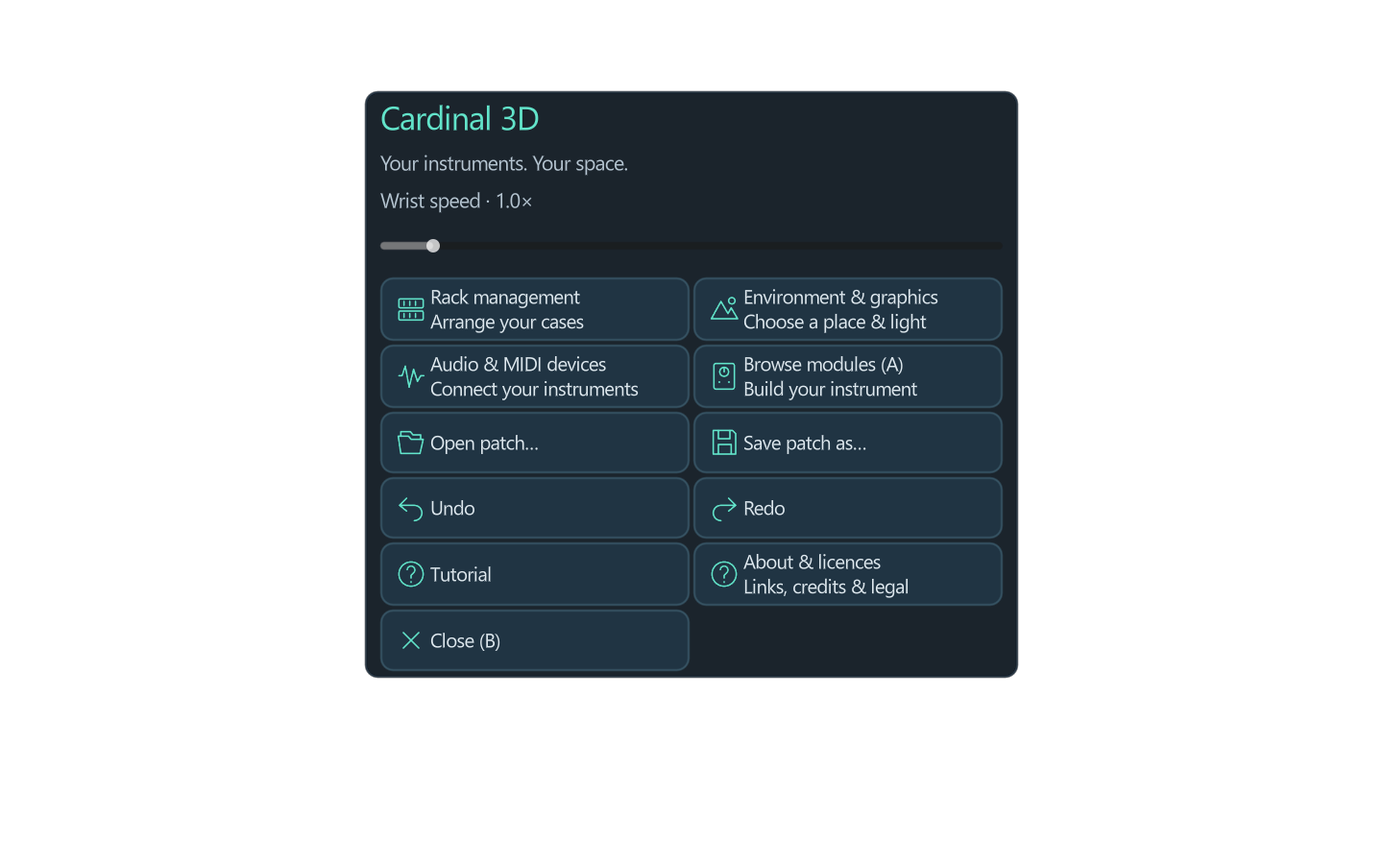
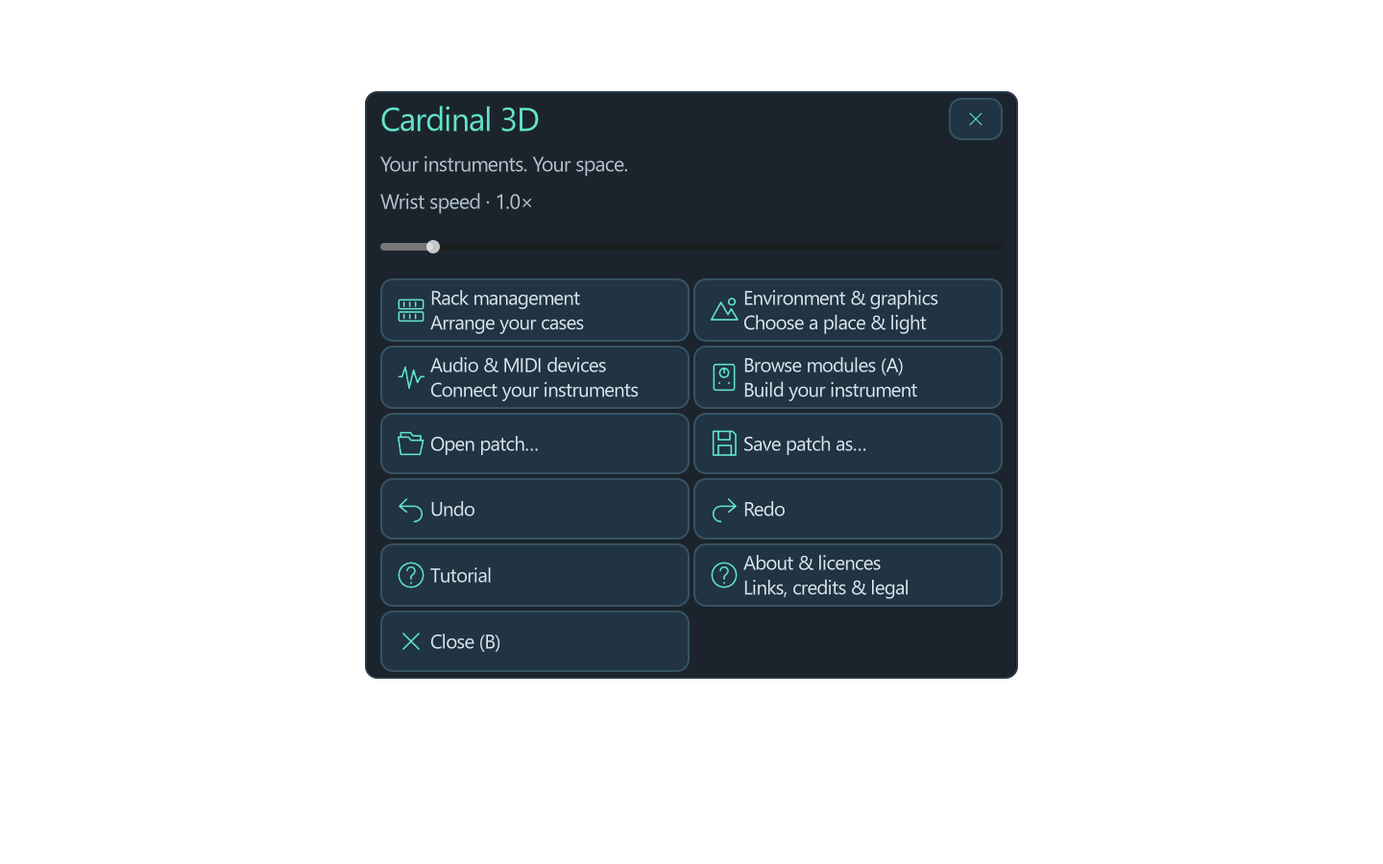
Swap B menu shortcuts, add window close buttons and use author controller diagram

diff --git a/docs/MANUAL.html b/docs/MANUAL.html
@@ -1,1 +1,1 @@
-<!doctype html><html lang="en"><meta charset="utf-8"><meta name="viewport" content="width=device-width, initial-scale=1"><title>Cardinal 3D 0.77 — manual</title><style>body{margin:0;background:#0c1720;color:#dce8ed;font:19px/1.65 system-ui,sans-serif}main{max-width:980px;margin:auto;padding:40px 24px}h1,h2{color:#62e4ca;line-height:1.2}h2{margin-top:64px}a{color:#8ce7dc}nav{padding:20px;background:#17303c;border-radius:16px}nav a{display:inline-block;margin:6px 18px 6px 0}figure{margin:28px 0}img{max-width:100%;height:auto;border-radius:14px;border:1px solid #365363}figcaption{font-size:15px;color:#a4bac6}table{width:100%;border-collapse:collapse}td{padding:12px;border-bottom:1px solid #365363}tr:first-child{color:#62e4ca;font-weight:600}code{background:#203443;padding:2px 5px;border-radius:4px}@media print{body{background:white;color:#172730}h1,h2,a{color:#174f52}nav{display:none}img{max-height:420px;object-fit:contain}h2{break-before:page}figure,table{break-inside:avoid}}</style><main><h1 id="section-0">Cardinal 3D 0.77 — illustrated manual</h1><nav><a href="#section-0">1. Install and start</a><a href="#section-1">2. Know the controls</a><a href="#section-2">3. Play knobs, faders and small selectors</a><a href="#section-3">4. Find and add modules</a><a href="#section-4">5. Patch and unplug cables</a><a href="#section-5">6. Arrange multiple cases</a><a href="#section-6">7. Choose a place and picture quality</a><a href="#section-7">8. Audio, MIDI and saving</a><a href="#section-8">9. About, support and licences</a><a href="#section-9">10. If something goes wrong</a></nav><p>Build a modular instrument around you. Cardinal 3D runs Cardinal&#x27;s synthesizer inside a Windows VR application, using a Quest 2 through Quest Link. Several physical cases share one patch, so cables can connect modules across cases.</p><p><figure><img src="images/rack.png" alt="A real starter rack rendered in Cardinal 3D" loading="lazy"><figcaption>A real starter rack rendered in Cardinal 3D</figcaption></figure></p><h2 id="section-0">1. Install and start</h2><p>Download the Windows x64 ZIP from <a href="https://github.com/mtyas/Cardinal-3D/releases">Releases</a>, extract the whole folder, and keep its files together. No Python, Docker or compiler is needed to play. Install Meta Horizon Link, connect the Quest 2 with a USB data cable, and enter Quest Link from the headset. Make Meta&#x27;s runtime the active OpenXR runtime in the Link app if another PC VR runtime is selected.</p><p>Run <strong>Launch Quest Link.bat</strong>. For a monitor-only check, use <strong>Launch desktop.bat</strong>. Close the old app before starting another copy. Start with a low volume; the starter patch makes a continuous tone. The startup guide can be skipped and replayed from the B menu. Its startup toggle remembers your choice.</p><p><figure><img src="images/tutorial.png" alt="Startup guide with labelled Quest Touch controller" loading="lazy"><figcaption>Startup guide with labelled Quest Touch controller</figcaption></figure></p><p>Your computer needs Windows x64, a graphics card supported by Quest Link and the Meta Link software. The tested setup is Quest 2 over USB; other OpenXR headsets and Air Link are not validated. This is a PC application, not a standalone Android headset app or a DAW plugin.</p><h2 id="section-1">2. Know the controls</h2><p><figure><img src="images/tutorial-3.png" alt="Right Quest Touch controller controls in the app" loading="lazy"><figcaption>Right Quest Touch controller controls in the app</figcaption></figure></p><table><tr><td>Control</td><td>Action</td></tr><tr><td>Trigger</td><td>Click; hold to adjust a control, patch a cable or drag a title/case</td></tr><tr><td>Right A / left X</td><td>Open or close the module browser</td></tr><tr><td>Right B / left Y</td><td>Main menu; selected module&#x27;s native menu when a module is selected</td></tr><tr><td>Grip + B/Y</td><td>Always open the main menu</td></tr><tr><td>Joystick</td><td>Pan left/right and move closer/farther; scroll when a menu/browser is open</td></tr><tr><td>Grip + joystick</td><td>Raise/lower your viewpoint; turn left/right around your head</td></tr><tr><td>Trigger + wrist twist</td><td>Turn a knob or move a fader</td></tr><tr><td>Trigger + grip + wrist twist</td><td>Ten times finer knob/fader adjustment</td></tr><tr><td>Trigger on a case edge, in Layout mode</td><td>Aim to position; twist wrist to rotate upright; stick up/down changes distance</td></tr></table><p>The Oculus/system button remains a headset control, not an app shortcut. The right-controller illustration is an original teaching render; A/X and B/Y are the corresponding shortcuts on either hand. Tracked hand pointing/pinching is available when the PC OpenXR runtime exposes it, but the controller grip shortcuts are controller actions.</p><h2 id="section-2">3. Play knobs, faders and small selectors</h2><p><figure><img src="images/tutorial-2.png" alt="Wrist tuning page" loading="lazy"><figcaption>Wrist tuning page</figcaption></figure></p><p>Point at a knob or fader, hold the trigger and twist your wrist. <strong>Wrist speed</strong> in the main menu sets the coarse sensitivity. High settings let a short twist sweep a large range; low settings make normal adjustment more precise. While the trigger stays held, squeeze the grip to use one-tenth that sensitivity. Release the grip to return to normal speed. Moving your controller closer or farther does not change the value. The floating indicator shows the current mode and the native parameter display.</p><p>Click switches and buttons with the trigger. In MixMaster, the small arrows beside the bottom channel group display change its routing. Click the number itself to open <strong>Main output / Group</strong> choices. Native module-specific widgets retain their original behaviour; not every custom display offers a generic knob-style interaction.</p><h2 id="section-3">4. Find and add modules</h2><p><figure><img src="images/browser.png" alt="Module browser" loading="lazy"><figcaption>Module browser</figcaption></figure></p><p>Press A/X. Use Search, Manufacturer and Type to narrow the list; filter choices use large buttons. The stick scrolls the module gallery or an open filter list. Click a preview; the highlight and selection text show what you chose. <strong>Add selected module</strong> inserts it and closes the browser. New modules go into the active rack and use native non-overlapping placement. Titles belong to the preview immediately underneath them.</p><p>To move a module, hold only its top title strip. A placement ghost shows the destination and neighbours that will slide aside. Release to commit the move. Selecting its title also makes B/Y open that module&#x27;s native context menu, including its duplicate, delete and other available options. Use Undo for reversible patch edits.</p><h2 id="section-4">5. Patch and unplug cables</h2><p><figure><img src="images/rack.png" alt="Starter patch showing sockets and cables" loading="lazy"><figcaption>Starter patch showing sockets and cables</figcaption></figure></p><p>Hold an output socket and release over an input socket to connect it. Aim at the socket itself; nearby compatible sockets are helped by the aiming target. To repatch, grab the plug on an input, pull it clear and release at another compatible socket. To unplug, pull the input plug clear and release away from sockets. Cancelling preserves the original cable. Cable replacements and removals use native undo history. Output fan-out is supported; inputs hold one cable.</p><h2 id="section-5">6. Arrange multiple cases</h2><p><figure><img src="images/rack-menu.png" alt="Rack management page" loading="lazy"><figcaption>Rack management page</figcaption></figure></p><p>Open <strong>B → Rack management</strong>, then enable <strong>Layout mode</strong>. The selected rack is the destination for new modules and case actions. <strong>Add empty rack</strong> puts a new case beside it. Select a module title and use the transfer action to move that module or its row into the selected case. All cases remain part of the same patch and can be wired together.</p><p>Hold a case edge and aim the controller ray at the desired position. Aiming upward lifts the case without having to lift your hand high. Stick up/down changes its distance along the ray; moving your hand also moves the ray&#x27;s origin. Twist your wrist to turn the case around the vertical axis. Cases never tilt or roll. Release to save the placement. Cable lines simplify during movement and return to detailed tubes on release.</p><p>Use the line, around-you and stack actions as starting arrangements, then refine by hand. Bring in front retrieves a distant case. Deleting a case asks for confirmation and reports its modules/cables. <strong>Deletion removes its contents</strong>; one Undo restores those contents, but does not restore the deleted physical case arrangement. The final case can be cleared. Turn Layout mode off before performing so case positions remain locked.</p><p><figure><img src="images/tutorial-6.png" alt="Rack movement guide" loading="lazy"><figcaption>Rack movement guide</figcaption></figure></p><h2 id="section-6">7. Choose a place and picture quality</h2><p><figure><img src="images/environment-menu.png" alt="Environment controls" loading="lazy"><figcaption>Environment controls</figcaption></figure></p><p>Choose Recording studio, Forest, Mountain summit, Stage, Warehouse, Desert or Flowery field. Time of day changes the lighting. These are lightweight stylized scenes. Balanced uses 2× MSAA; higher quality uses 4×; maximum speed reduces antialiasing. Try Balanced first and judge clarity and smoothness in your headset. GPU load depends on the patch, previews and PC; no universal latency guarantee is made.</p><p><figure><img src="images/forest.png" alt="Forest environment in the application" loading="lazy"><figcaption>Forest environment in the application</figcaption></figure></p><h2 id="section-7">8. Audio, MIDI and saving</h2><p><figure><img src="images/audio-menu.png" alt="Audio and MIDI page" loading="lazy"><figcaption>Audio and MIDI page</figcaption></figure></p><p><strong>Audio &amp; MIDI devices</strong> has its own page. Choose your output, set volume, choose a MIDI input and use note panic if notes get stuck. In long option lists, move the stick to highlight and press the trigger to confirm. Selecting a highlighted item commits the change. Audio input, full driver/channel/sample-rate/buffer controls, MIDI output and SysEx are not implemented in 0.77.</p><p>Use <strong>Open patch</strong> or <strong>Save patch as</strong> from the main menu. The .vcv patch remains native; the adjacent <strong>.vcv.3d.json</strong> stores the physical case arrangement. Keep both files together when moving or sharing a patch. The app also recovers the last patch periodically and when closing, with a previous .bak copy. Release downloads save settings/recovery under <code>%LOCALAPPDATA%\Cardinal-3D\0.77</code>; development launchers use their separate <code>standalone-user</code> folder. Recovery is not a substitute for saving your patch with a name.</p><h2 id="section-8">9. About, support and licences</h2><p><figure><img src="images/about-menu.png" alt="In-app About and licence page" loading="lazy"><figcaption>In-app About and licence page</figcaption></figure></p><p>The About page links to <a href="https://github.com/mtyas">mtyas on GitHub</a>, <a href="https://ko-fi.com/mtyas">Ko-fi support</a> and the project. Links open your Windows browser only when clicked. Support is optional; no account or network connection is needed to play.</p><p>Project code is <strong>GPL-3.0-or-later</strong>, with no warranty. Cardinal, Rack, Godot and module authors are credited in the shipped notices. Module panel artwork, fonts and samples retain their separate upstream terms, including noncommercial and custom restrictions. Consult <strong>legal/NOTICE.txt</strong>, <strong>LICENSES.md</strong>, <strong>LICENSE-PERMISSIONS.md</strong> and the individual notices before reusing artwork. The matching full source download contains recursive Cardinal modules, bindings and dependency source archives; GitHub&#x27;s automatic ZIP alone is incomplete. Documentation screenshots depict the original module artwork and keep those asset terms.</p><h2 id="section-9">10. If something goes wrong</h2><p><figure><img src="images/main-menu.png" alt="Main menu with settings and recovery actions" loading="lazy"><figcaption>Main menu with settings and recovery actions</figcaption></figure></p><p>If VR does not appear, check the USB Quest Link session, active Meta OpenXR runtime and Link&#x27;s PC compatibility first. If there is no sound, select the Quest virtual output in both the app and Windows where appropriate, check volume and the patch&#x27;s Host Audio connections. If a rack is hard to reach, use grip + stick to move your viewpoint, or Bring in front in Layout mode. If menus scroll unexpectedly, return the stick to centre before clicking.</p><p>For a crash, retain <code>session.log</code> from the release settings folder and describe the patch/modules and last action in a <a href="https://github.com/mtyas/Cardinal-3D/issues">GitHub issue</a>. Remove private patch names or paths before posting logs. Private patches and settings are never part of the download. Keep the previous working release until you have tested a new one.</p></main></html>
+<!doctype html><html lang="en"><meta charset="utf-8"><meta name="viewport" content="width=device-width, initial-scale=1"><title>Cardinal 3D 0.77 — manual</title><style>body{margin:0;background:#0c1720;color:#dce8ed;font:19px/1.65 system-ui,sans-serif}main{max-width:980px;margin:auto;padding:40px 24px}h1,h2{color:#62e4ca;line-height:1.2}h2{margin-top:64px}a{color:#8ce7dc}nav{padding:20px;background:#17303c;border-radius:16px}nav a{display:inline-block;margin:6px 18px 6px 0}figure{margin:28px 0}img{max-width:100%;height:auto;border-radius:14px;border:1px solid #365363}figcaption{font-size:15px;color:#a4bac6}table{width:100%;border-collapse:collapse}td{padding:12px;border-bottom:1px solid #365363}tr:first-child{color:#62e4ca;font-weight:600}code{background:#203443;padding:2px 5px;border-radius:4px}@media print{body{background:white;color:#172730}h1,h2,a{color:#174f52}nav{display:none}img{max-height:420px;object-fit:contain}h2{break-before:page}figure,table{break-inside:avoid}}</style><main><h1 id="section-0">Cardinal 3D 0.77 — illustrated manual</h1><nav><a href="#section-0">1. Install and start</a><a href="#section-1">2. Know the controls</a><a href="#section-2">3. Play knobs, faders and small selectors</a><a href="#section-3">4. Find and add modules</a><a href="#section-4">5. Patch and unplug cables</a><a href="#section-5">6. Arrange multiple cases</a><a href="#section-6">7. Choose a place and picture quality</a><a href="#section-7">8. Audio, MIDI and saving</a><a href="#section-8">9. About, support and licences</a><a href="#section-9">10. If something goes wrong</a></nav><p>Build a modular instrument around you. Cardinal 3D runs Cardinal&#x27;s synthesizer inside a Windows VR application, using a Quest 2 through Quest Link. Several physical cases share one patch, so cables can connect modules across cases.</p><p><figure><img src="images/rack.png" alt="A real starter rack rendered in Cardinal 3D" loading="lazy"><figcaption>A real starter rack rendered in Cardinal 3D</figcaption></figure></p><h2 id="section-0">1. Install and start</h2><p>Download the Windows x64 ZIP from <a href="https://github.com/mtyas/Cardinal-3D/releases">Releases</a>, extract the whole folder, and keep its files together. No Python, Docker or compiler is needed to play. Install Meta Horizon Link, connect the Quest 2 with a USB data cable, and enter Quest Link from the headset. Make Meta&#x27;s runtime the active OpenXR runtime in the Link app if another PC VR runtime is selected.</p><p>Run <strong>Launch Quest Link.bat</strong>. For a monitor-only check, use <strong>Launch desktop.bat</strong>. Close the old app before starting another copy. Start with a low volume; the starter patch makes a continuous tone. The startup guide can be skipped and replayed from the B menu. Its startup toggle remembers your choice.</p><p><figure><img src="images/tutorial.png" alt="Startup guide with labelled Quest Touch controller" loading="lazy"><figcaption>Startup guide with labelled Quest Touch controller</figcaption></figure></p><p>Your computer needs Windows x64, a graphics card supported by Quest Link and the Meta Link software. The tested setup is Quest 2 over USB; other OpenXR headsets and Air Link are not validated. This is a PC application, not a standalone Android headset app or a DAW plugin.</p><h2 id="section-1">2. Know the controls</h2><p><figure><img src="images/tutorial-3.png" alt="Right Quest Touch controller controls in the app" loading="lazy"><figcaption>Right Quest Touch controller controls in the app</figcaption></figure></p><table><tr><td>Control</td><td>Action</td></tr><tr><td>Trigger</td><td>Click; hold to adjust a control, patch a cable or drag a title/case</td></tr><tr><td>Right A / left X</td><td>Open or close the module browser</td></tr><tr><td>Right B / left Y</td><td>Always open the main menu; press again to close it</td></tr><tr><td>Grip + B/Y</td><td>Open the selected module&#x27;s native context menu</td></tr><tr><td>Joystick</td><td>Pan left/right and move closer/farther; scroll when a menu/browser is open</td></tr><tr><td>Grip + joystick</td><td>Raise/lower your viewpoint; turn left/right around your head</td></tr><tr><td>Trigger + wrist twist</td><td>Turn a knob or move a fader</td></tr><tr><td>Trigger + grip + wrist twist</td><td>Ten times finer knob/fader adjustment</td></tr><tr><td>Trigger on a case edge, in Layout mode</td><td>Aim to position; twist wrist to rotate upright; stick up/down changes distance</td></tr></table><p>The Oculus/system button remains a headset control, not an app shortcut. The right-controller diagram was created by mtyas; its R1 marker means joystick, R2 means trigger and R3 means grip. A/X and B/Y are the corresponding shortcuts on either hand. Tracked hand pointing/pinching is available when the PC OpenXR runtime exposes it, but the controller grip shortcuts are controller actions.</p><h2 id="section-2">3. Play knobs, faders and small selectors</h2><p><figure><img src="images/tutorial-2.png" alt="Wrist tuning page" loading="lazy"><figcaption>Wrist tuning page</figcaption></figure></p><p>Point at a knob or fader, hold the trigger and twist your wrist. <strong>Wrist speed</strong> in the main menu sets the coarse sensitivity. High settings let a short twist sweep a large range; low settings make normal adjustment more precise. While the trigger stays held, squeeze the grip to use one-tenth that sensitivity. Release the grip to return to normal speed. Moving your controller closer or farther does not change the value. The floating indicator shows the current mode and the native parameter display.</p><p>Click switches and buttons with the trigger. In MixMaster, the small arrows beside the bottom channel group display change its routing. Click the number itself to open <strong>Main output / Group</strong> choices. Native module-specific widgets retain their original behaviour; not every custom display offers a generic knob-style interaction.</p><h2 id="section-3">4. Find and add modules</h2><p><figure><img src="images/browser.png" alt="Module browser" loading="lazy"><figcaption>Module browser</figcaption></figure></p><p>Press A/X. Use Search, Manufacturer and Type to narrow the list; filter choices use large buttons. The stick scrolls the module gallery or an open filter list. Click a preview; the highlight and selection text show what you chose. <strong>Add selected module</strong> inserts it and closes the browser. New modules go into the active rack and use native non-overlapping placement. Titles belong to the preview immediately underneath them.</p><p>To move a module, hold only its top title strip. A placement ghost shows the destination and neighbours that will slide aside. Release to commit the move. Select its title, then hold grip and press B/Y to open that module&#x27;s native context menu, including its duplicate, delete and other available options. B/Y alone always opens the main menu. Close menu windows with the × at the top right. Use Undo for reversible patch edits.</p><h2 id="section-4">5. Patch and unplug cables</h2><p><figure><img src="images/rack.png" alt="Starter patch showing sockets and cables" loading="lazy"><figcaption>Starter patch showing sockets and cables</figcaption></figure></p><p>Hold an output socket and release over an input socket to connect it. Aim at the socket itself; nearby compatible sockets are helped by the aiming target. To repatch, grab the plug on an input, pull it clear and release at another compatible socket. To unplug, pull the input plug clear and release away from sockets. Cancelling preserves the original cable. Cable replacements and removals use native undo history. Output fan-out is supported; inputs hold one cable.</p><h2 id="section-5">6. Arrange multiple cases</h2><p><figure><img src="images/rack-menu.png" alt="Rack management page" loading="lazy"><figcaption>Rack management page</figcaption></figure></p><p>Open <strong>B → Rack management</strong>, then enable <strong>Layout mode</strong>. The selected rack is the destination for new modules and case actions. <strong>Add empty rack</strong> puts a new case beside it. Select a module title and use the transfer action to move that module or its row into the selected case. All cases remain part of the same patch and can be wired together.</p><p>Hold a case edge and aim the controller ray at the desired position. Aiming upward lifts the case without having to lift your hand high. Stick up/down changes its distance along the ray; moving your hand also moves the ray&#x27;s origin. Twist your wrist to turn the case around the vertical axis. Cases never tilt or roll. Release to save the placement. Cable lines simplify during movement and return to detailed tubes on release.</p><p>Use the line, around-you and stack actions as starting arrangements, then refine by hand. Bring in front retrieves a distant case. Deleting a case asks for confirmation and reports its modules/cables. <strong>Deletion removes its contents</strong>; one Undo restores those contents, but does not restore the deleted physical case arrangement. The final case can be cleared. Turn Layout mode off before performing so case positions remain locked.</p><p><figure><img src="images/tutorial-6.png" alt="Rack movement guide" loading="lazy"><figcaption>Rack movement guide</figcaption></figure></p><h2 id="section-6">7. Choose a place and picture quality</h2><p><figure><img src="images/environment-menu.png" alt="Environment controls" loading="lazy"><figcaption>Environment controls</figcaption></figure></p><p>Choose Recording studio, Forest, Mountain summit, Stage, Warehouse, Desert or Flowery field. Time of day changes the lighting. These are lightweight stylized scenes. Balanced uses 2× MSAA; higher quality uses 4×; maximum speed reduces antialiasing. Try Balanced first and judge clarity and smoothness in your headset. GPU load depends on the patch, previews and PC; no universal latency guarantee is made.</p><p><figure><img src="images/forest.png" alt="Forest environment in the application" loading="lazy"><figcaption>Forest environment in the application</figcaption></figure></p><h2 id="section-7">8. Audio, MIDI and saving</h2><p><figure><img src="images/audio-menu.png" alt="Audio and MIDI page" loading="lazy"><figcaption>Audio and MIDI page</figcaption></figure></p><p><strong>Audio &amp; MIDI devices</strong> has its own page. Choose your output, set volume, choose a MIDI input and use note panic if notes get stuck. In long option lists, move the stick to highlight and press the trigger to confirm. Selecting a highlighted item commits the change. Audio input, full driver/channel/sample-rate/buffer controls, MIDI output and SysEx are not implemented in 0.77.</p><p>Use <strong>Open patch</strong> or <strong>Save patch as</strong> from the main menu. The .vcv patch remains native; the adjacent <strong>.vcv.3d.json</strong> stores the physical case arrangement. Keep both files together when moving or sharing a patch. The app also recovers the last patch periodically and when closing, with a previous .bak copy. Release downloads save settings/recovery under <code>%LOCALAPPDATA%\Cardinal-3D\0.77</code>; development launchers use their separate <code>standalone-user</code> folder. Recovery is not a substitute for saving your patch with a name.</p><h2 id="section-8">9. About, support and licences</h2><p><figure><img src="images/about-menu.png" alt="In-app About and licence page" loading="lazy"><figcaption>In-app About and licence page</figcaption></figure></p><p>The About page links to <a href="https://github.com/mtyas">mtyas on GitHub</a>, <a href="https://ko-fi.com/mtyas">Ko-fi support</a> and the project. Links open your Windows browser only when clicked. Support is optional; no account or network connection is needed to play.</p><p>Project code is <strong>GPL-3.0-or-later</strong>, with no warranty. Cardinal, Rack, Godot and module authors are credited in the shipped notices. Module panel artwork, fonts and samples retain their separate upstream terms, including noncommercial and custom restrictions. Consult <strong>legal/NOTICE.txt</strong>, <strong>LICENSES.md</strong>, <strong>LICENSE-PERMISSIONS.md</strong> and the individual notices before reusing artwork. The matching full source download contains recursive Cardinal modules, bindings and dependency source archives; GitHub&#x27;s automatic ZIP alone is incomplete. Documentation screenshots depict the original module artwork and keep those asset terms.</p><h2 id="section-9">10. If something goes wrong</h2><p><figure><img src="images/main-menu.png" alt="Main menu with settings and recovery actions" loading="lazy"><figcaption>Main menu with settings and recovery actions</figcaption></figure></p><p>If VR does not appear, check the USB Quest Link session, active Meta OpenXR runtime and Link&#x27;s PC compatibility first. If there is no sound, select the Quest virtual output in both the app and Windows where appropriate, check volume and the patch&#x27;s Host Audio connections. If a rack is hard to reach, use grip + stick to move your viewpoint, or Bring in front in Layout mode. If menus scroll unexpectedly, return the stick to centre before clicking.</p><p>For a crash, retain <code>session.log</code> from the release settings folder and describe the patch/modules and last action in a <a href="https://github.com/mtyas/Cardinal-3D/issues">GitHub issue</a>. Remove private patch names or paths before posting logs. Private patches and settings are never part of the download. Keep the previous working release until you have tested a new one.</p></main></html>

diff --git a/docs/MANUAL.md b/docs/MANUAL.md
@@ -22,15 +22,15 @@ Your computer needs Windows x64, a graphics card supported by Quest Link and the
 |---|---|
 | Trigger | Click; hold to adjust a control, patch a cable or drag a title/case |
 | Right A / left X | Open or close the module browser |
-| Right B / left Y | Main menu; selected module's native menu when a module is selected |
-| Grip + B/Y | Always open the main menu |
+| Right B / left Y | Always open the main menu; press again to close it |
+| Grip + B/Y | Open the selected module's native context menu |
 | Joystick | Pan left/right and move closer/farther; scroll when a menu/browser is open |
 | Grip + joystick | Raise/lower your viewpoint; turn left/right around your head |
 | Trigger + wrist twist | Turn a knob or move a fader |
 | Trigger + grip + wrist twist | Ten times finer knob/fader adjustment |
 | Trigger on a case edge, in Layout mode | Aim to position; twist wrist to rotate upright; stick up/down changes distance |
 
-The Oculus/system button remains a headset control, not an app shortcut. The right-controller illustration is an original teaching render; A/X and B/Y are the corresponding shortcuts on either hand. Tracked hand pointing/pinching is available when the PC OpenXR runtime exposes it, but the controller grip shortcuts are controller actions.
+The Oculus/system button remains a headset control, not an app shortcut. The right-controller diagram was created by mtyas; its R1 marker means joystick, R2 means trigger and R3 means grip. A/X and B/Y are the corresponding shortcuts on either hand. Tracked hand pointing/pinching is available when the PC OpenXR runtime exposes it, but the controller grip shortcuts are controller actions.
 
 ## 3. Play knobs, faders and small selectors
 
@@ -46,7 +46,7 @@ Click switches and buttons with the trigger. In MixMaster, the small arrows besi
 
 Press A/X. Use Search, Manufacturer and Type to narrow the list; filter choices use large buttons. The stick scrolls the module gallery or an open filter list. Click a preview; the highlight and selection text show what you chose. **Add selected module** inserts it and closes the browser. New modules go into the active rack and use native non-overlapping placement. Titles belong to the preview immediately underneath them.
 
-To move a module, hold only its top title strip. A placement ghost shows the destination and neighbours that will slide aside. Release to commit the move. Selecting its title also makes B/Y open that module's native context menu, including its duplicate, delete and other available options. Use Undo for reversible patch edits.
+To move a module, hold only its top title strip. A placement ghost shows the destination and neighbours that will slide aside. Release to commit the move. Select its title, then hold grip and press B/Y to open that module's native context menu, including its duplicate, delete and other available options. B/Y alone always opens the main menu. Close menu windows with the × at the top right. Use Undo for reversible patch edits.
 
 ## 5. Patch and unplug cables
 

diff --git a/docs/ARTWORK.md b/docs/ARTWORK.md
@@ -2,7 +2,7 @@
 
 The 0.77 Windows candidate includes original pinned Cardinal resources so it runs without a separate Cardinal installation. They remain under their original terms; the software GPL does not replace artwork, sample or font licences. `legal/` preserves the complete pinned Cardinal licence table, permission records, individual notices, dependency notices and Godot attribution. The matching source archive contains the recursive source and resources. Procedural knob, socket, screw, cable and plug meshes are project-original GPL-3.0-or-later assets.
 
-The illustrated manual uses screenshots of the app, predominantly the GPL Fundamental starter rack plus the original Rack components. Screenshots retain applicable third-party artwork terms. The controller teaching image is an original AI-assisted illustration of Quest 2 hardware, with project-authored callouts; supplied reference screenshots are not included in the public package. This is an independent project, with no Meta/VCV/DISTRHO endorsement.
+The illustrated manual uses screenshots of the app, predominantly the GPL Fundamental starter rack plus the original Rack components. Screenshots retain applicable third-party artwork terms. The controller teaching diagram was created and supplied by mtyas, with a project-authored action legend. The earlier reference screenshots and generated teaching render are not included in the public package. This is an independent project, with no Meta/VCV/DISTRHO endorsement.
 
 The initial panels are Fundamental VCO, VCF, ADSR, VCA-1 and Scope, and DISTRHO Cardinal Host Audio. Their source artwork and notices remain under `vendor/Cardinal/plugins/Fundamental/res`, `vendor/Cardinal/plugins/Cardinal/res` and Rack's component/font resources. Fundamental is credited to VCV; Cardinal to DISTRHO/Filipe Coelho. Module/component paths and runtime C++ types are recorded in descriptors.
 

diff --git a/README.md b/README.md
@@ -19,7 +19,7 @@ The portable download includes the runtime. Python, Docker and compiling are not
 
 ## Your hands on the instrument
 
-Trigger + wrist twist adjusts knobs and faders. Hold the grip as well for ten times finer wrist control; the B menu sets your normal sensitivity. A opens the browser. B opens the main menu, or a selected module's own context menu. Grip + B always opens the main menu.
+Trigger + wrist twist adjusts knobs and faders. Hold the grip as well for ten times finer wrist control; the B menu sets your normal sensitivity. A opens the browser. B always opens the main menu. Select a module, then press grip + B for its context menu. Menu windows have a close button at the top right.
 
 The sticks pan and zoom; grip + stick moves vertically and turns your viewpoint. In menus and the browser, the stick scrolls. Move modules from their title strips using an insertion ghost. Connect, repatch and unplug cables through their sockets, with native undo.
 
